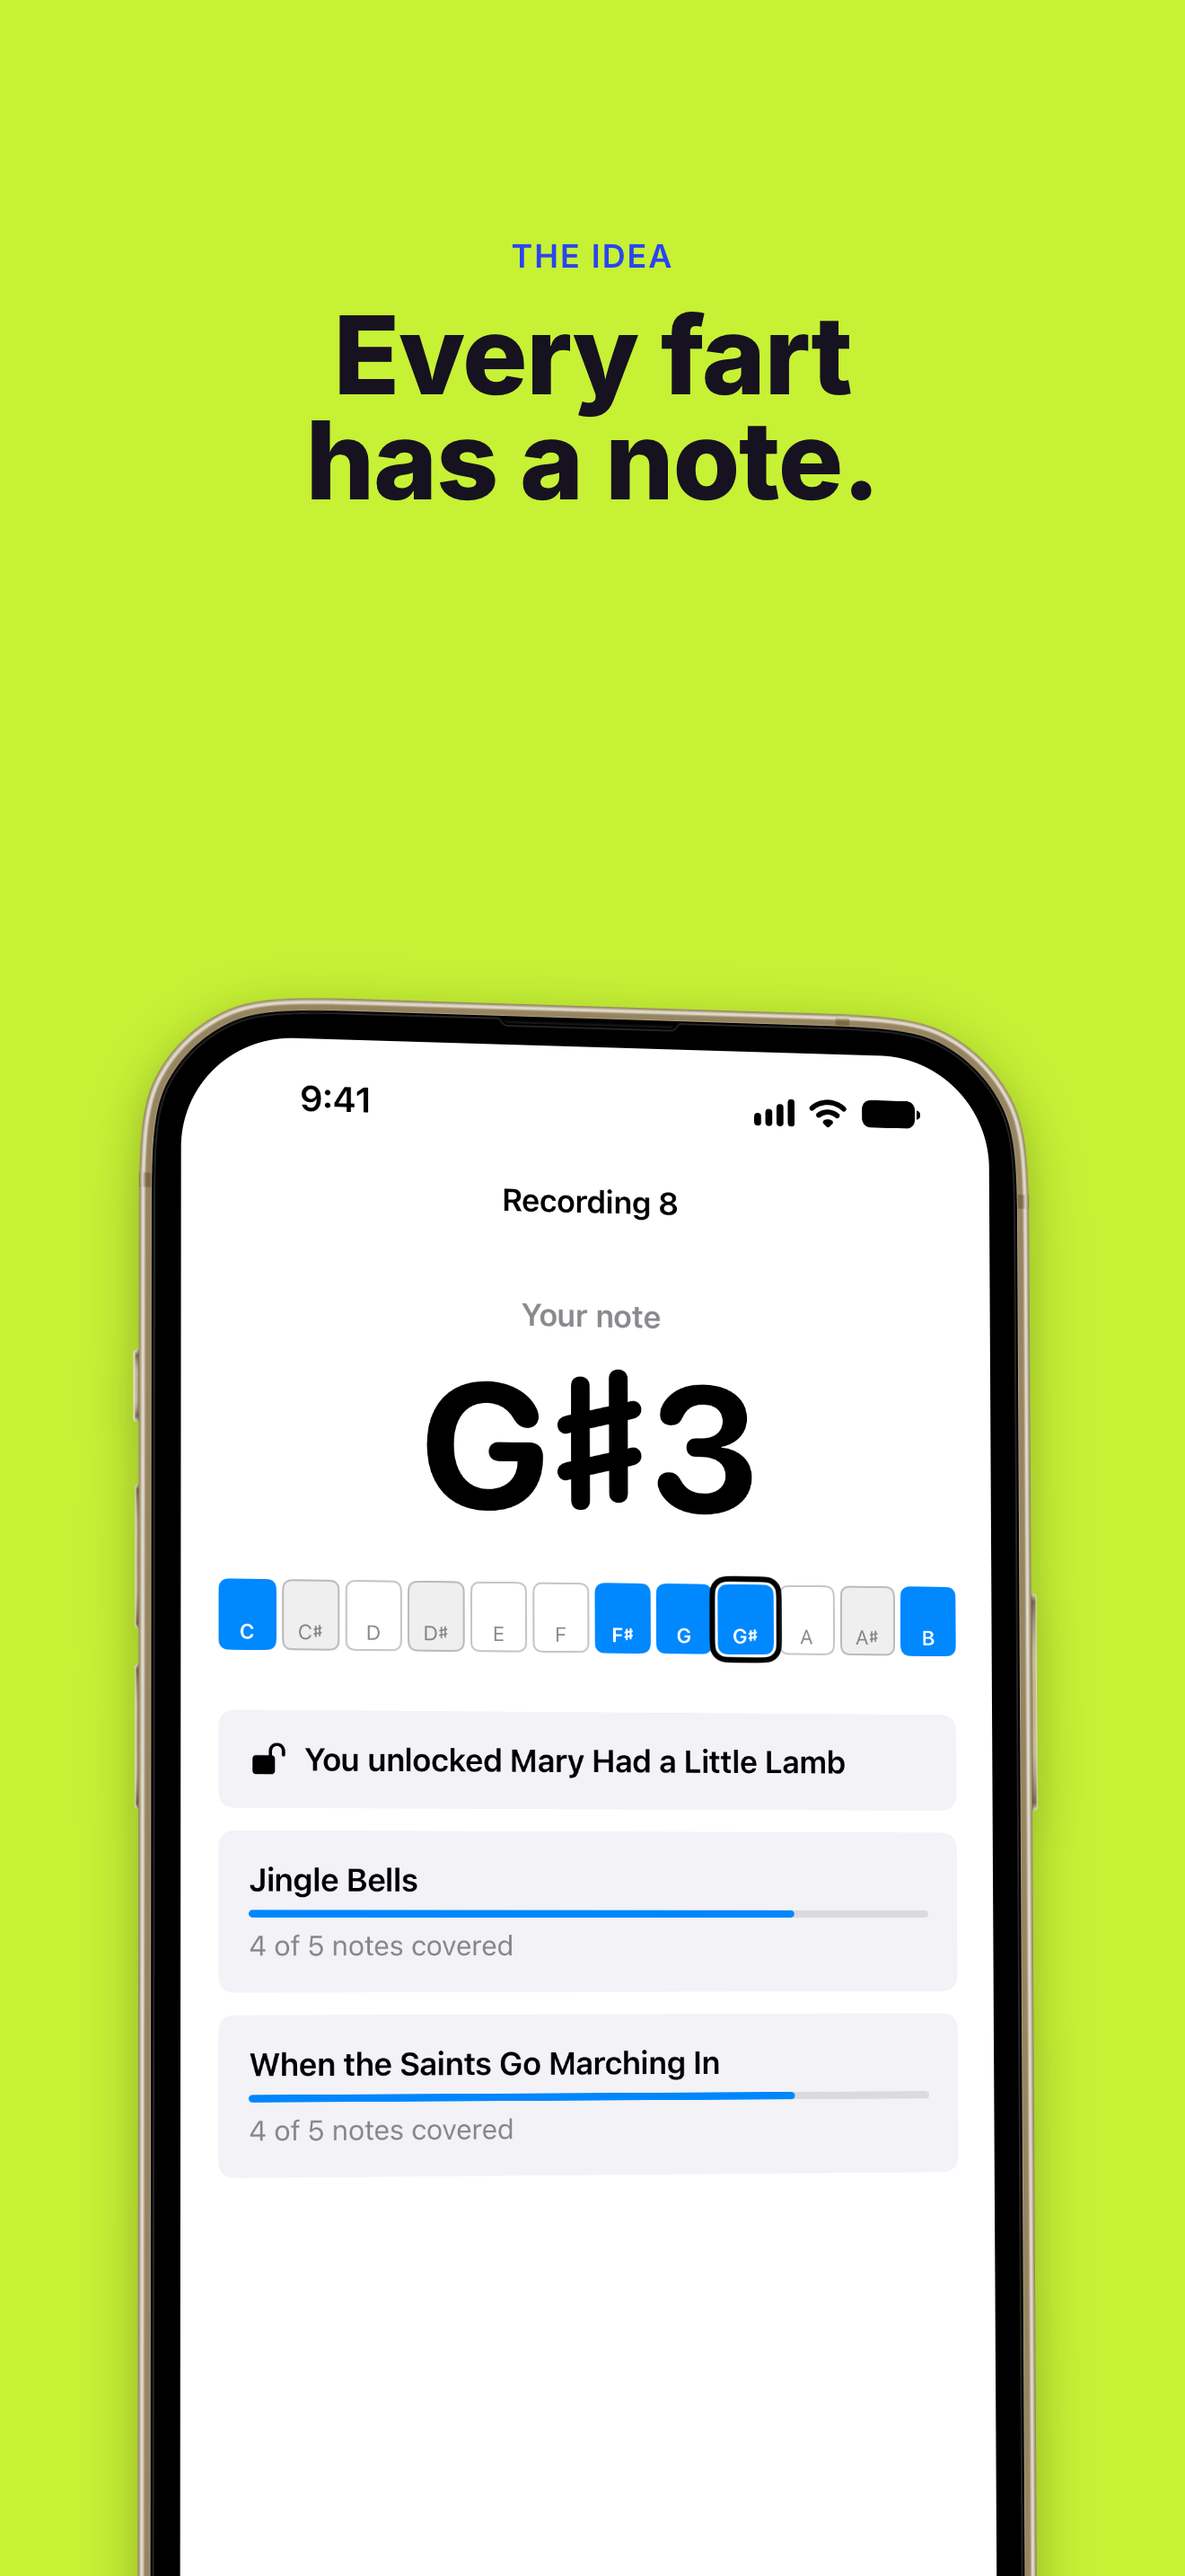
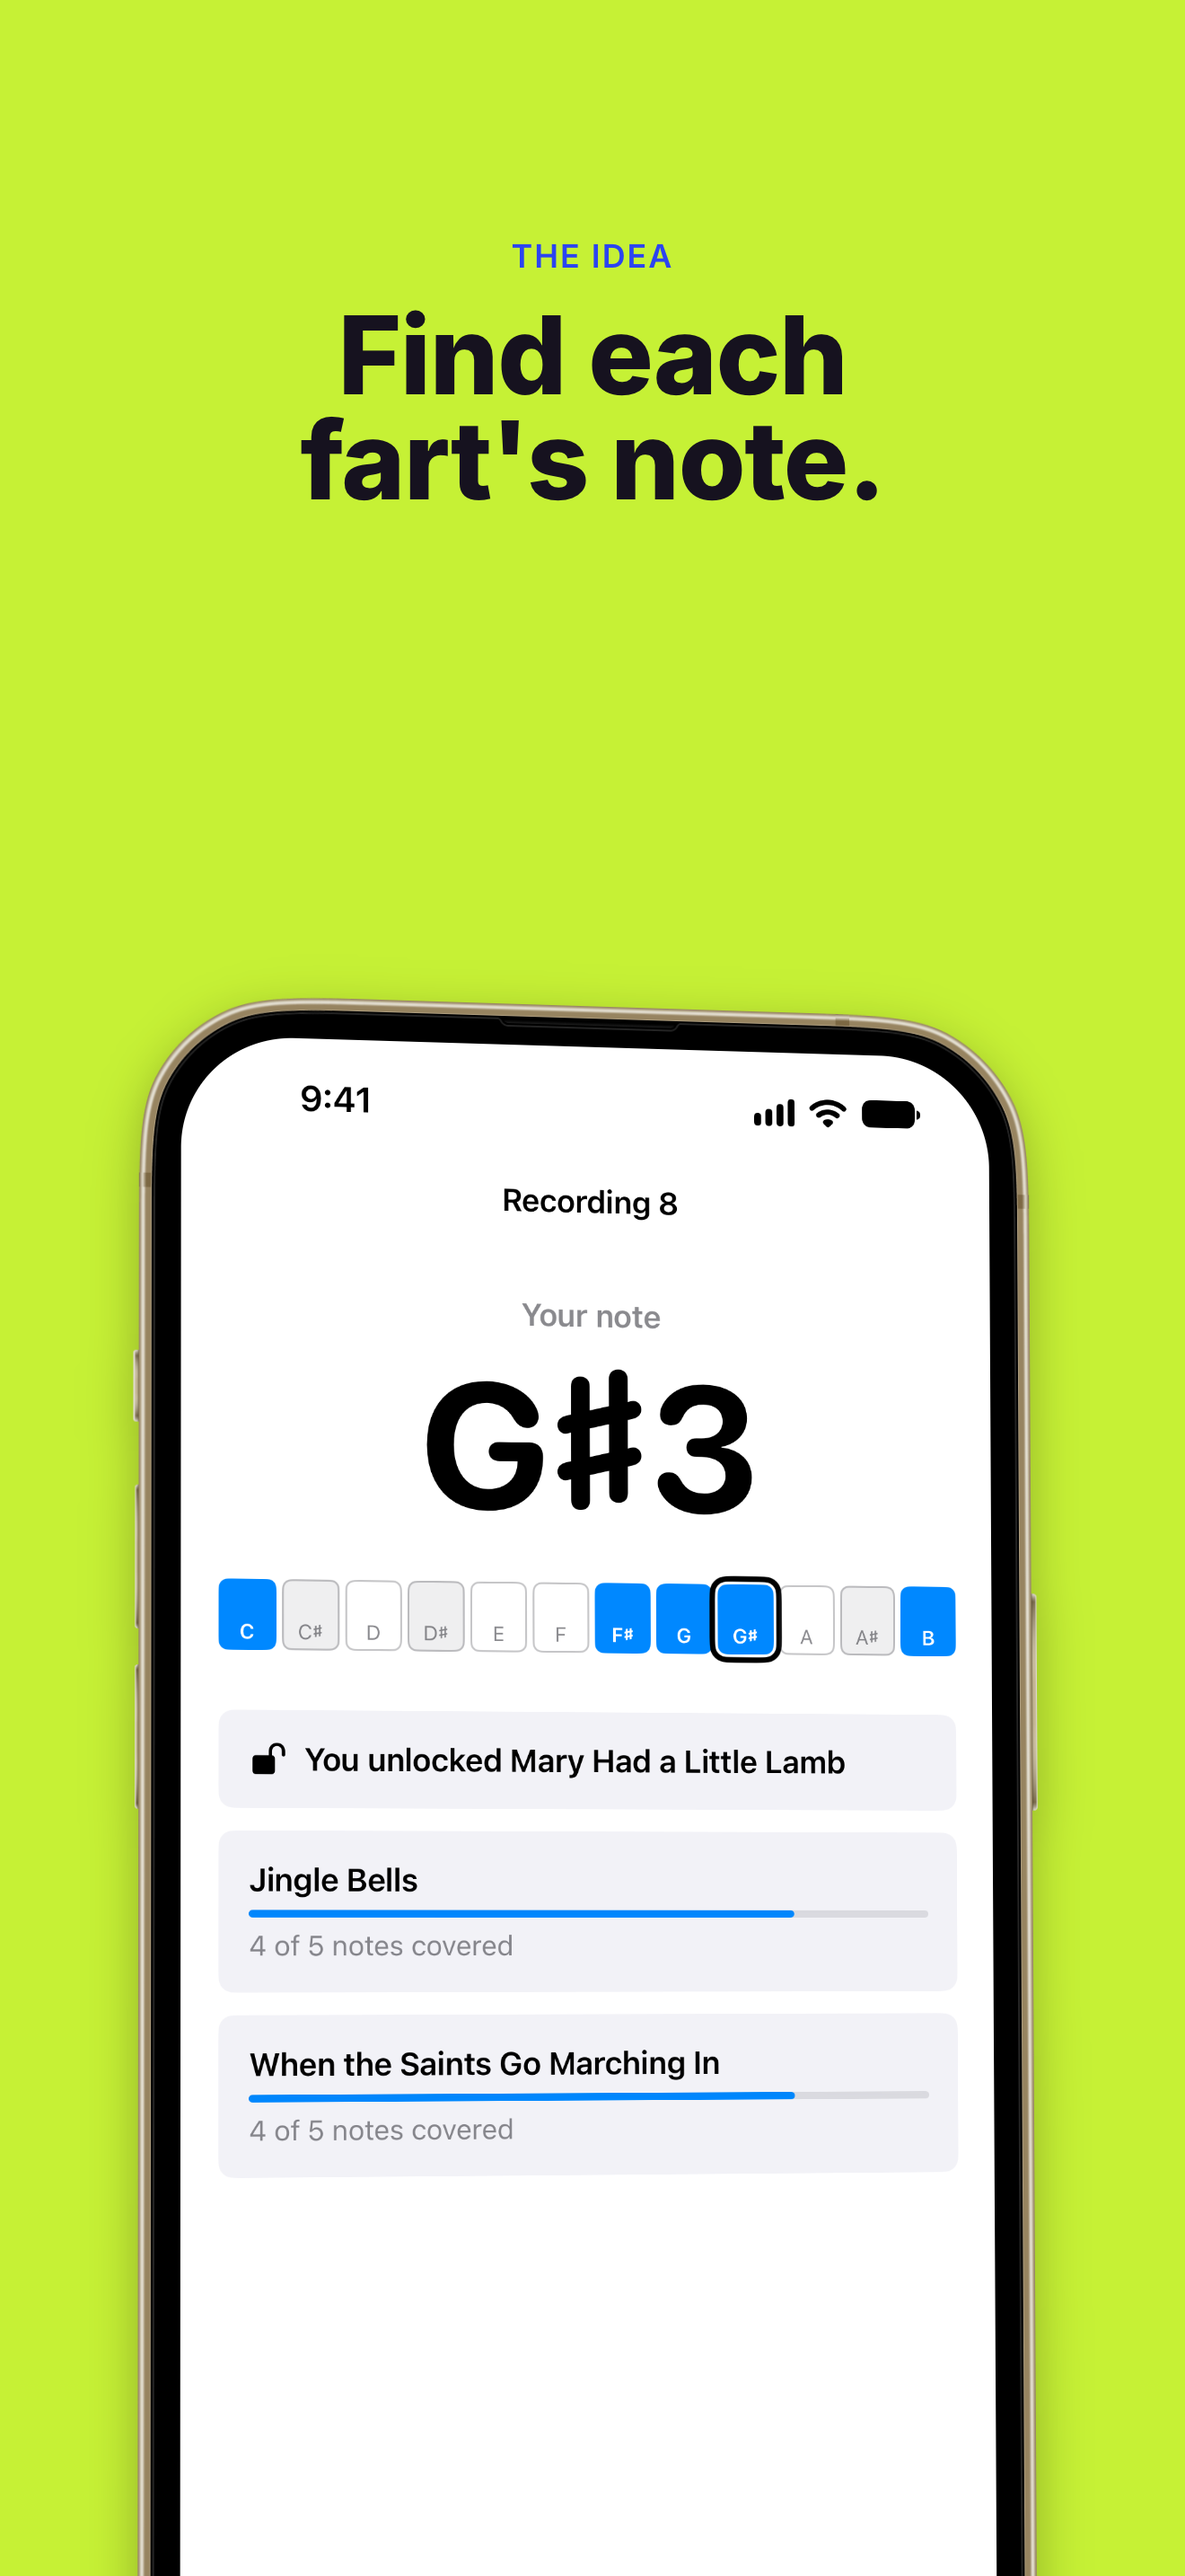
docs: apply review suggestions to the App Store drafts (#76)
Use sharps (A♯2), credit PDMX only, first-version What's New and version
wording, a second subtitle option, the import list, the age-rating
frequency note, the Happy Birthday melody note, the empty-take support
advice, the README re-export steps, and a promo headline that matches
noise-like farts.

Changed region(s): [[0.2485, 0.1241, 0.7144, 0.2172]]

diff --git a/docs/app-store/metadata.md b/docs/app-store/metadata.md
@@ -23,7 +23,7 @@ Two options. The home-screen name stays **Pedos** either way (`CFBundleDisplayNa
 Either way, App Store Connect will refuse a name another app already uses; check that it's free
 when you create or rename the app record.
 
-**Owner decides:** which name.
+**Owner decides:** which name, and the first App Store version number (see below).
 
 ## Subtitle (30 characters max)
 
@@ -33,6 +33,16 @@ Turn your farts into songs
 
 26 characters. The name and subtitle are indexed for search, so the keywords below don't repeat
 "fart", "songs" or "Pedos".
+
+**If the name is `Pedos: Fart Songs`**, this subtitle repeats "fart" and "songs" and wastes 26
+characters on words the name already indexes. Use this one instead:
+
+```text
+Find the melody in every toot
+```
+
+29 characters. It adds "melody" and "toot", so for this pairing use the second keyword list below,
+which drops those two words and adds "laugh" and "gross".
 
 ## Promotional text (170 characters max)
 
@@ -47,7 +57,7 @@ Record a fart and Pedos finds its note. Collect notes to unlock songs like Twink
 ```text
 Pedos turns your farts into music.
 
-Record a fart and Pedos finds its note. Some farts hold a steady pitch, like G3 or B♭2. Others are just noise. Every fart is saved, and every one with a clear note joins your collection.
+Record a fart and Pedos finds its note. Some farts hold a steady pitch, like G3 or A♯2. Others are just noise. Every fart is saved, and every one with a clear note joins your collection.
 
 Collect enough different notes and songs unlock, like Mary Had a Little Lamb, Twinkle, Twinkle, Little Star, Ode to Joy and Jingle Bells. A song needs a different fart for each of its notes, so finding new notes is the game.
 
@@ -63,7 +73,7 @@ HOW IT WORKS
 • Profile: your recordings, notes collected, songs unlocked and Toots.
 
 SONGS WITH SOURCES
-Every song comes from a public-domain score, from the PDMX dataset and the Mutopia Project.
+Every song comes from a public-domain score in the PDMX dataset.
 
 PRIVATE BY DESIGN
 Your recordings stay on your iPhone. There's no account, no sign-in, no ads and no tracking, and Pedos doesn't send your recordings anywhere.
@@ -73,7 +83,7 @@ Your recordings stay on your iPhone. There's no account, no sign-in, no ads and 
 
 Claims checked against the code and docs:
 
-- "finds its note", "noise-like", "G3 or B♭2": Recording Analysis (`RecordingAnalysisKit/`); the
+- "finds its note", "noise-like", "G3 or A♯2": Recording Analysis (`RecordingAnalysisKit/`); the
   Result screen shows "Your note" or "No steady note this time".
 - "a different fart for each of its notes": the unlock rule in `docs/design/app-map.md`.
 - "nothing else", "no synthesizer": ADR 0004. **Only true once the Release build renders Toots
@@ -81,8 +91,10 @@ Claims checked against the code and docs:
 - "Keep the ones you like as Toots", "ready to play, rename or delete": true in today's app, but
   Toots are kept in memory only and are lost when the app quits. **Toots must survive a relaunch
   before submission**, or this line must change.
-- "public-domain score, from the PDMX dataset and the Mutopia Project": ADR 0003 and
-  `catalog/catalog.json`; the same credit is on the Profile tab.
+- "public-domain score in the PDMX dataset": all 12 shipped Songs are from PDMX (ADR 0003,
+  `catalog/catalog.json`; each Song shows "Public domain score · PDMX"). The one Mutopia entry,
+  `ode-mutopia`, is in the catalog but doesn't ship, so Mutopia isn't credited. The Profile tab's
+  credit line still names both; that wording is a separate small app change.
 - "no account, no sign-in, no ads and no tracking", "doesn't send your recordings anywhere": see
   `app-privacy.md` (no network code in the app).
 - No number of songs is given, because the Song Catalog is meant to grow (it has 12 today).
@@ -95,11 +107,25 @@ Comma-separated, no spaces after commas.
 toot,music,melody,funny,sound,recorder,pitch,note,silly,humor,gas,poot,tune,noise,comedy,flatulence
 ```
 
-99 characters. Left out on purpose: "fart" and "songs" (already in the name and subtitle), "prank"
+99 characters. For the `Pedos: Fart Songs` name with the second subtitle, use this list instead
+("melody", "toot" and "tune" are out; "laugh" and "gross" are in):
+
+```text
+music,funny,sound,recorder,pitch,note,silly,humor,gas,poot,noise,comedy,flatulence,laugh,gross
+```
+
+94 characters. Left out on purpose: "fart" and "songs" (already in the name and subtitle), "prank"
 and "soundboard" (Pedos has no prank or soundboard feature), "tuner" (it isn't one), "kids"
 (it suggests the Kids category, which has its own rules), and competitors' names (guideline 2.3.7).
 
-## What's New (version 1.0)
+## What's New (for the first update)
+
+App Store Connect doesn't offer "What's New" for an app's first version, so this text isn't used at
+launch. Keep it for the first update, and edit it to describe what changed.
+
+**Version number (owner decides).** The build's version is `MARKETING_VERSION: "0.1.0"` in
+`ios/project.yml`, which release-please manages, so the first App Store version won't be "1.0"
+unless someone bumps it. The owner picks the number before the first upload.
 
 ```text
 First release. Record your farts, find each one's note, and unlock songs played only by your farts.
@@ -127,7 +153,7 @@ W3GXL2NQQP).
 
 ## Price
 
-**Free** (Tier 0), with no in-app purchases. The Paid Apps agreement isn't needed.
+**Free**, with no in-app purchases. The Paid Apps agreement isn't needed.
 
 ## Review notes for Apple
 
@@ -143,7 +169,7 @@ How to try it:
 
 Privacy: recordings stay on the device, in the app's own storage. There is no account or sign-in, and the app makes no network requests: nothing is collected, sent or tracked.
 
-The melodies come from public-domain scores (the PDMX dataset and the Mutopia Project); each song's source and license are recorded in the app's catalog.
+The melodies come from public-domain scores (the PDMX dataset); each song's source and license are recorded in the app's catalog.
 ```
 
 **Owner checks before submitting:** step 4 follows from the unlock rule (one recording per

diff --git a/docs/app-store/app-privacy.md b/docs/app-store/app-privacy.md
@@ -15,7 +15,7 @@ contacts, photos, HealthKit, pasteboard, `ShareLink`, `UIActivityViewController`
 | Finding | Where |
 | --- | --- |
 | **No network code at all.** No `URLSession`, `URLRequest`, `Network` framework or web views. The only URL the app opens is `UIApplication.openSettingsURLString`, the system Settings app, from the "Pedos needs the microphone" alert. | `Record/RecordTab.swift` |
-| **No third-party code.** The only package is the local `RecordingAnalysisKit` (`ios/project.yml`); it imports Foundation, AVFAudio and Accelerate only. The app imports Foundation, SwiftUI, AVFAudio, Accelerate, Observation and UIKit. | `ios/project.yml`, `RecordingAnalysisKit/Package.swift` |
+| **No third-party code.** The only package is the local `RecordingAnalysisKit` (`ios/project.yml`); it imports Foundation and AVFAudio, plus Accelerate in `PYIN.swift` only. The app target imports Foundation, SwiftUI, AVFAudio, Observation, UIKit and RecordingAnalysisKit. | `ios/project.yml`, `RecordingAnalysisKit/Package.swift` |
 | **No accounts, analytics, ads, tracking or identifiers.** None of the APIs above appear. | |
 | **Microphone audio is recorded and kept on the device.** `AVAudioRecorder` writes mono 44.1 kHz AAC to a draft in the app's temporary folder; Save moves it to `Application Support/Recordings/<id>.m4a`, with `<id>.json` (number, length, save date) and `<id>.analysis.json` (Recording Analysis: the fart's span and pitch) beside it. Discard deletes the draft; Delete removes the files. | `Model/LiveRecordingSource.swift`, `Model/RecordingStore.swift` (ADR 0002) |
 | **Recording Analysis runs on the phone**, in Swift, with no server. | `RecordingAnalysisKit/` |
@@ -69,7 +69,7 @@ the exact wording in App Store Connect may differ slightly.
 | User-generated content | No | Recordings are made by the user but stay on their phone; nobody else can see or hear them. |
 | Messaging and chat | No | None. |
 | Advertising | No | None. |
-| **Profanity or crude humor** | **Infrequent or Mild** | Fart humor is the whole premise, but it's mild toilet humor: no words of profanity anywhere, no insults, nothing sexual. |
+| **Profanity or crude humor** | **Infrequent or Mild** | Fart humor is the whole premise, but it's mild toilet humor: no words of profanity anywhere, no insults, nothing sexual. Apple's levels are "Infrequent or Mild" versus "Frequent or Intense". The humor is frequent (it's the name, every screen and every line of the listing) but mild, and the rating follows intensity, so "Infrequent or Mild" still applies. |
 | Horror or fear themes | None | |
 | Alcohol, tobacco or drug use or references | None | |
 | Mature or suggestive themes | None | |
@@ -79,7 +79,7 @@ the exact wording in App Store Connect may differ slightly.
 | Cartoon or fantasy violence / realistic violence / prolonged graphic violence / guns or other weapons | None | |
 | Simulated gambling / gambling / contests / loot boxes | None / No | Unlocking Songs is collecting notes, with no chance, purchases or prizes. |
 
-**Suggested rating: 9+**, the result of "Infrequent or Mild" crude humor with everything else
+**Suggested rating: 9+**, weighing both parts of the answer (the humor is frequent, but mild), the result of "Infrequent or Mild" crude humor with everything else
 "None". The conservative alternative is "Frequent or Intense" (13+), if the owner would rather not
 argue that a fart app's humor is mild; it costs younger users, the audience most likely to enjoy
 the app.
@@ -93,16 +93,18 @@ App Store Connect asks: "Does your app contain, show, or access third-party cont
 
 **Suggested answer: Yes, and yes, we have the necessary rights.**
 
-- **The Songs are third-party melodies, all public domain.** Every Song comes from a cited score
-  in PDMX (Long et al., ICASSP 2025, doi:10.5281/zenodo.15571083), checked per score as public
-  domain (Public Domain Mark 1.0), or from the Mutopia Project (public domain). Each entry in
-  `catalog/catalog.json` records the source ID, URL, license, file hash and retrieval date
+- **The Songs are third-party melodies, all public domain.** All 12 shipped Songs come from a
+  cited score in PDMX (Long et al., ICASSP 2025, doi:10.5281/zenodo.15571083), checked per score as
+  public domain (Public Domain Mark 1.0). (The one Mutopia entry, `ode-mutopia`, is in the catalog
+  but doesn't ship.) Each entry in `catalog/catalog.json` records the source ID, URL, license, file hash and retrieval date
   (ADR 0003). The app credits them on the Profile tab and on each Song ("Public domain score ·
   PDMX").
 - **Happy Birthday** is in the catalog, and the score used is marked public domain in PDMX. Its
-  copyright was long disputed: a 2015 US ruling (Marya v. Warner/Chappell) and the 2016 settlement
-  put it in the public domain in the US. It's the one Song worth a second look by the owner for
-  other countries.
+  copyright was long disputed, but the dispute (Marya v. Warner/Chappell, a 2015 US ruling and a
+  2016 settlement) was about the **lyrics**. Pedos plays the melody only, with no lyrics. The
+  melody is from "Good Morning to All" (1893), whose composer, Mildred Hill, died in 1916, so it's
+  public domain everywhere, including countries with life+70 copyright terms. No second look is
+  needed for other countries.
 - **No third-party audio ships.** Every sound comes from the user's own recordings (ADR 0004). The
   Fixture Library (`fixtures/recordings/`) and the design prototype's audio are excluded from
   Release builds, and `ios/scripts/check-release-build.sh` fails the build if any audio or loader

diff --git a/docs/app-store/README.md b/docs/app-store/README.md
@@ -11,6 +11,7 @@ marked "Owner decides" or "Owner provides", and presses Submit for Review.
 | [`privacy-policy.md`](privacy-policy.md) | A short privacy policy to host at a public URL |
 | [`support.md`](support.md) | A short support page to host at a public URL |
 | [`screenshots/`](screenshots/) | Six 6.9-inch iPhone screenshots |
+| [`promo/`](promo/) | Five ad-style promo screenshots (headline over a colored background) and the editor's project file |
 
 ## Before submitting
 
@@ -22,6 +23,8 @@ These drafts describe the app as it must be at submission, not today's Release b
   "Keep the ones you like as Toots".
 - **A privacy manifest** (`PrivacyInfo.xcprivacy`) for the app's use of `UserDefaults`; see
   `app-privacy.md`.
+- **The first App Store version number.** The build is `0.1.0` (managed by release-please); the
+  owner picks the number to upload, and "What's New" isn't used for a first version.
 - **Placeholders to fill:** `<support email>`, `<privacy policy URL>` and `<date published>` in the
   hosted pages, and `<copyright holder>` in `metadata.md`.
 
@@ -67,7 +70,8 @@ To re-export, for example from the final Release build:
 
 1. Copy the skill's `template/` into a scratch folder and run `bun install`.
 2. Copy `promo/app-store-screenshots.json` there.
-3. Copy the plain screenshots into `public/screenshots/apple/iphone/en/` as `01.png` to `06.png`, in this folder's order (`01-record` … `06-toots`). Add the app icon as `public/app-icon.png`.
-4. Run `bun dev`, open http://localhost:3000, and click **Export bundle**. It exports every iPhone size Apple accepts.
+3. Copy the plain screenshots into `public/screenshots/apple/iphone/en/` as `01.png` to `06.png`, in this folder's order (`01-record` … `06-toots`). Only `02.png` to `06.png` are used by the project file; `01.png` isn't. Copy the app icon from `ios/Pedos/Assets.xcassets/AppIcon.appiconset/AppIcon.png` to `public/app-icon.png`.
+4. Run `bun dev`, open http://localhost:3000, and click **Export bundle**. It downloads a zip of every iPhone size Apple accepts.
+5. Unzip it and copy the 6.9-inch (1320×2868) PNGs from `ios/iphone/1320x2868/en/` back into `promo/`, under the existing names (`01-hero`, `02-two-devices`, `03-device-top`, `04-device-bottom`, `05-no-device`). Check each with `magick identify` (1320×2868, RGB). The editor auto-saves edits to its own `app-store-screenshots.json`; copy that back to `promo/` too if anything changed.
 
 The promo set shows Toots, which only QA builds can make until #16 and #17, so retake it from the Release build before submitting.

diff --git a/docs/app-store/support.md b/docs/app-store/support.md
@@ -25,7 +25,7 @@ Some farts are just noise, with no clear pitch. The recording is still saved, bu
 melody notes. Try again: longer, steadier farts are more likely to hold a note.
 
 **It says "Didn't catch that".**
-The take was empty or too short. Try again a little closer to the phone.
+The take was empty: Stop was tapped right away. Tap Record, then Stop after the fart.
 
 **It says "We heard more than one".**
 Pedos keeps the first fart in a recording. Record one fart at a time.
@@ -39,7 +39,7 @@ They stay on your iPhone, inside the app, and are part of your iPhone's own back
 backups turned on. We never receive them, so we can't recover them. Deleting the app deletes them.
 
 **Where do the songs come from?**
-Every song comes from a public-domain score, from the PDMX dataset and the Mutopia Project.
+Every song comes from a public-domain score in the PDMX dataset.
 
 **Does Pedos collect my data?**
 No. See the [privacy policy](<privacy policy URL>).
